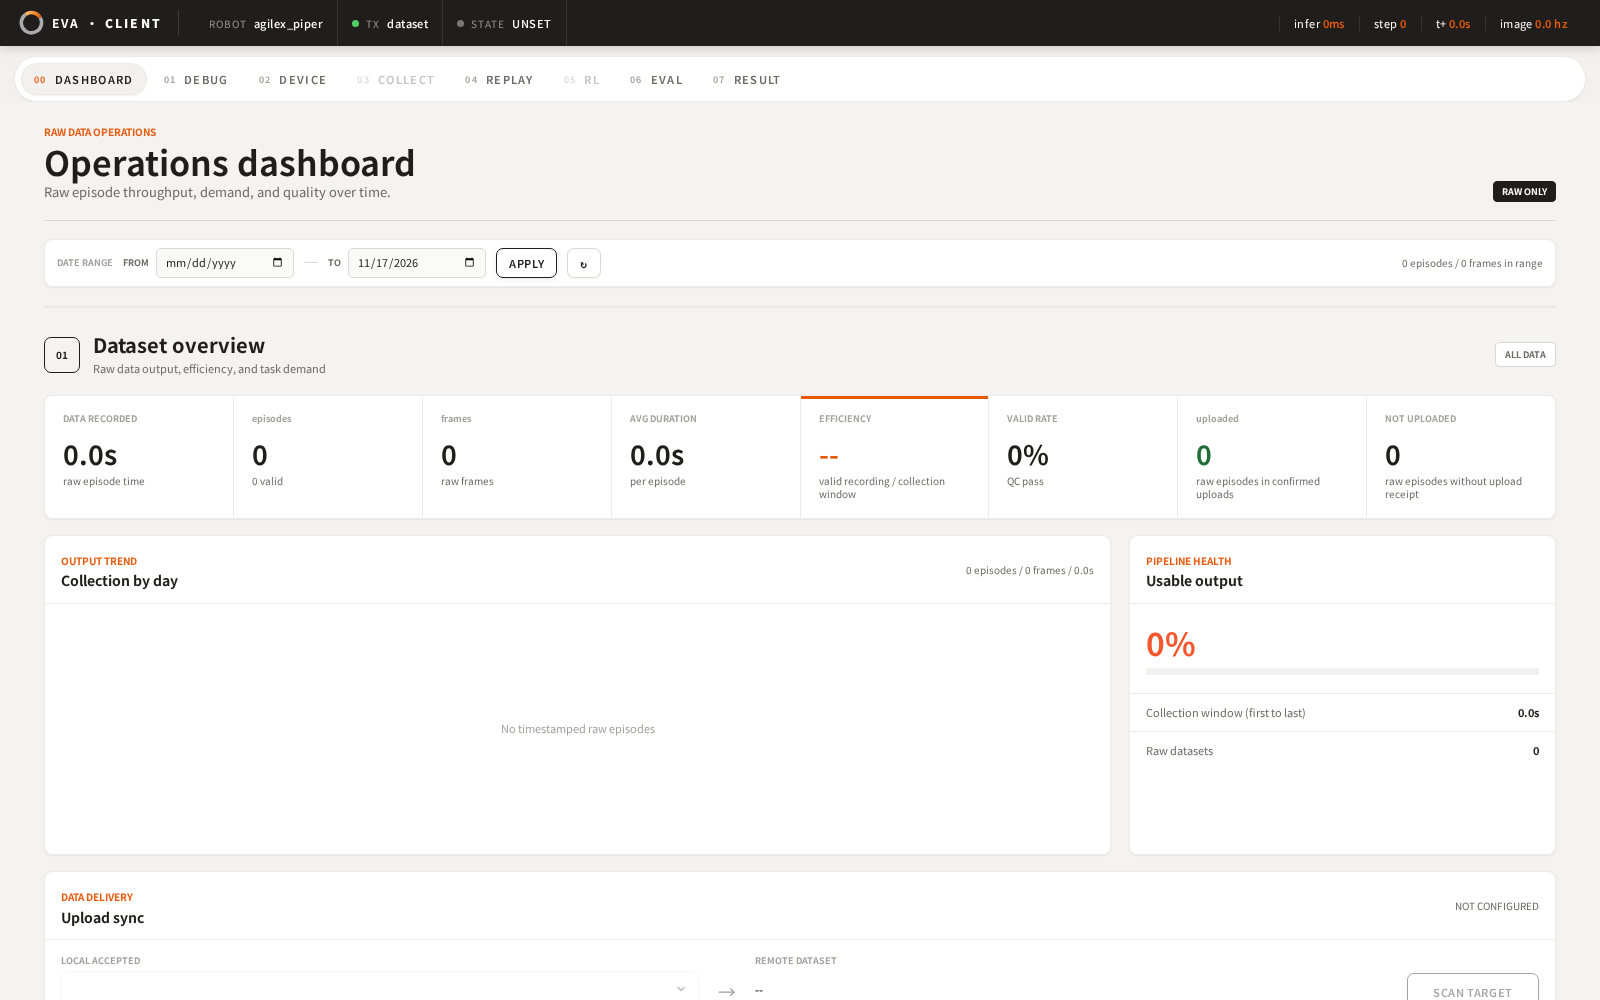
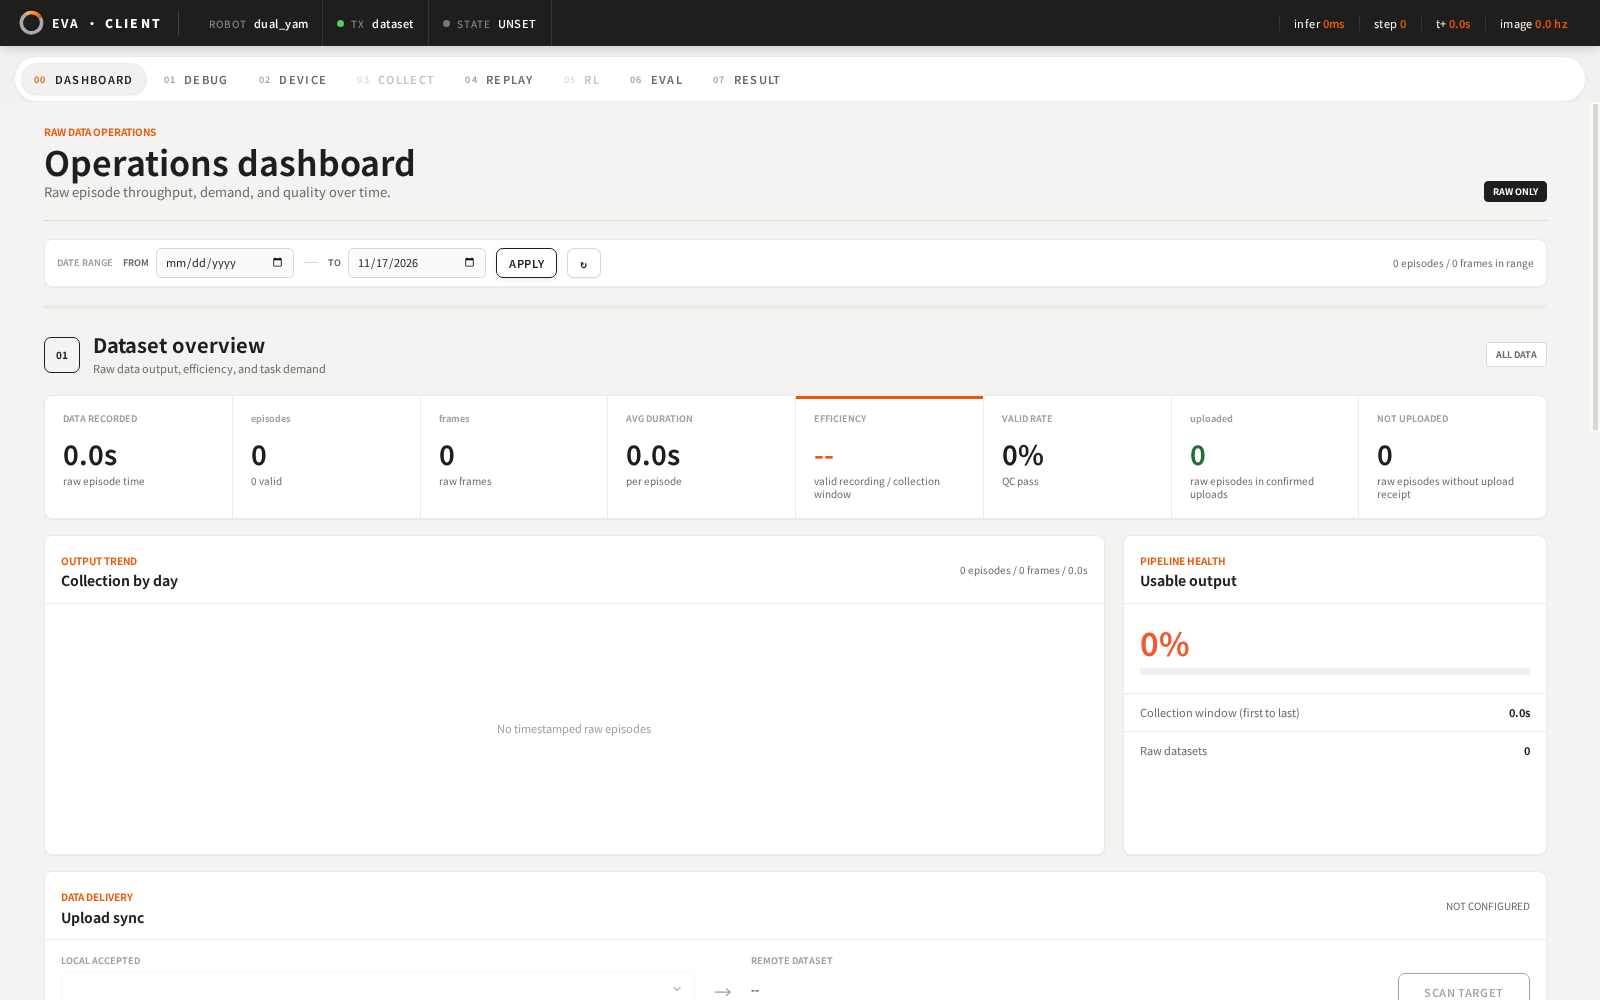
docs: condense the 0.3.0 news entry and use Dual YAM console screenshots

diff --git a/README.md b/README.md
@@ -34,24 +34,14 @@
 
 ## 🔥 What's NEW!
 
-<p align="center">
-  <video src="https://github.com/user-attachments/assets/caeabb2f-7896-4863-848d-21f9a5a38dcb" controls muted></video>
-</p>
-
-* **[2026-11-17] EVA-Client 0.3.0: unified devices, scene-aware evaluation, and dataset dashboard.** A large update across deployment, collection, evaluation, and data management:
-  * **Unified device workflow.** Pick a robot from the DEVICE tab or `eva device`, with hardware YAML defaults, workstation overrides, and detached device processes; EVA now starts without a business preset. Safer bring-up with camera readiness checks, preflight, homing, and safe stop. See [`docs/quick-start.md`](./docs/quick-start.md).
-  * **EVA-SIM support (simulator coming soon).** Record in simulation with simulator-owned MCAP capture, asynchronous native episode export, and world-bound teleoperation; import and validate simulator traces into collection datasets. See [`docs/recording.md`](./docs/recording.md#eva-sim-execution-recording).
-  * **Scene-aware evaluation.** Task sets with milestones, automatic task advance, attempt tracking and cancellation from the RUN panel, scene reference images, evaluation without client recording, and Client services configurable from the CLI. See [`docs/console.md`](./docs/console.md#scene-evaluation).
-  * **Dataset dashboard.** A new DASHBOARD and standalone dataset browser for task sets and datasets: scene filters, episode review, QC with download control, task-description and object-metadata editing, and SFTP/S3 delivery. See [`docs/console.md`](./docs/console.md#dataset-operations).
-  * **Collection.** One data root for task sets, datasets, and assets; scene/task identity binding; slots ordered by hand and layout and grouped by scene; VR review controls; recorder rejects missing, stalled, or frozen camera streams. See [`docs/collection_scene_plan.md`](./docs/collection_scene_plan.md).
-  * **Policy backends.** Native client for the official [XPolicyLab](https://github.com/XPolicyLab/XPolicyLab) websocket protocol (joint and EEF actions, episode reset, replaced-session recovery); policy requests keep every configured camera and pass raw images by default.
-  * **Hardware.** Dual YAM EEF configs, YAML-configured gripper speed and bounded impedance, camera startup controls, and a refined camera/device lifecycle.
-  * **Refreshed console UI.** A redesigned browser console with dedicated DASHBOARD, DEBUG, DEVICE, COLLECT, REPLAY, RL, EVAL, and RESULT tabs.
+* **[2026-11-17] EVA-Client 0.3.0: unified devices, scene-aware evaluation, and dataset dashboard.**
+  * Pick a robot from the DEVICE tab or `eva device`; evaluate with task sets, milestones, and attempt tracking; review, QC, and deliver data from the new DASHBOARD. See [`docs/quick-start.md`](./docs/quick-start.md) and [`docs/console.md`](./docs/console.md).
+  * Native [XPolicyLab](https://github.com/XPolicyLab/XPolicyLab) policy client, Dual YAM EEF configs, a refreshed console UI, and client-side EVA-SIM recording (simulator coming soon). Full list in [`CHANGELOG.md`](./CHANGELOG.md).
 
 <table>
   <tr>
-    <td><img src="assets/media/console/device.png" alt="DEVICE tab: live cameras and 3D arm view"></td>
-    <td><img src="assets/media/console/eval.png" alt="EVAL tab: scene-aware evaluation"></td>
+    <td><img src="assets/media/console/debug.png" alt="DEBUG tab: Dual YAM 3D scene"></td>
+    <td><img src="assets/media/console/device.png" alt="DEVICE tab: live cameras and Dual YAM arms"></td>
   </tr>
   <tr>
     <td><img src="assets/media/console/dashboard.png" alt="DASHBOARD tab: operations overview"></td>
